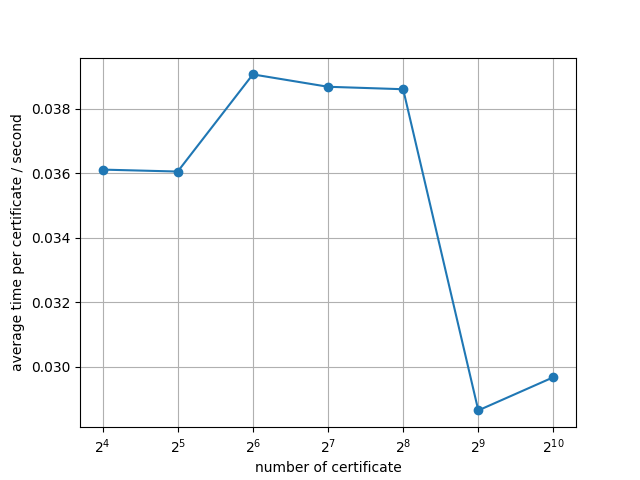
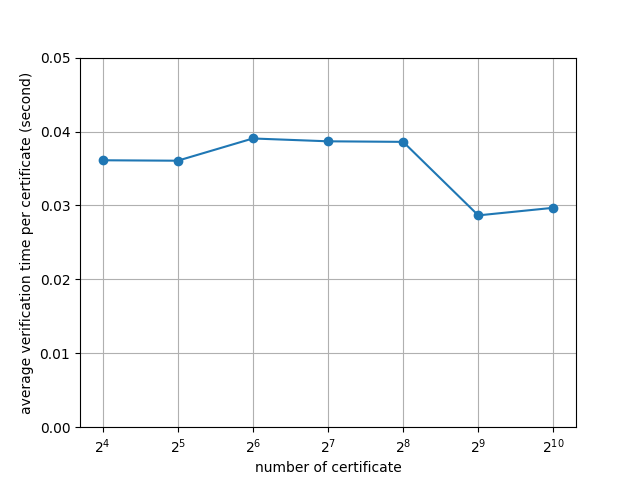
update test figure

diff --git a/plot.py b/plot.py
@@ -48,16 +48,16 @@ verify_log.close()
 
 
 # plt.title("issuing time diagram")
-plt.ylabel("average time per certificate / second")
+plt.ylabel("average time per certificate (second)")
 plt.xlabel("number of certificate")
 plt.xscale('log', base=2)
 plt.plot(x, e2e_time, '-o')
 plt.grid()
-# plt.ylim((2.133, 2.138))
+plt.ylim(0, 2.5)
 plt.savefig(FOLDER_PATH + "/issuing-time-diagram.png")
 plt.close()
 
-plt.ylabel("std time per certificate / second")
+plt.ylabel("std time per certificate (second)")
 plt.xlabel("number of certificate")
 plt.xscale('log', base=2)
 plt.plot(x, e2e_time_std, '-o')
@@ -68,7 +68,7 @@ plt.close()
 
 
 # plt.title("upload time diagram")
-plt.ylabel("total time / second")
+plt.ylabel("total time (second)")
 plt.xlabel("number of certificate")
 plt.xscale('log', base=2)
 plt.plot(x, upload_time, '-o')
@@ -77,21 +77,41 @@ plt.ylim((0, 140))
 plt.savefig(FOLDER_PATH + "/upload-time-diagram.png")
 plt.close()
 
+plt.ylabel("average upload time per certificate (second)")
+plt.xlabel("number of certificate")
+plt.xscale('log', base=2)
+plt.plot(x, upload_time/x, '-o')
+plt.grid()
+plt.ylim((0, 0.3))
+plt.savefig(FOLDER_PATH + "/upload-time-per-cert-diagram.png")
+plt.close()
+# plt.title("upload time diagram")
+plt.ylabel("total time / second")
+plt.xlabel("number of certificate")
+# plt.xscale('log', base=2)
+plt.plot(x, upload_time, '-o')
+plt.grid()
+plt.ylim((0, 140))
+plt.savefig(FOLDER_PATH + "/upload-time-linear-diagram.png")
+plt.close()
 # plt.title("verify time diagram")
-plt.ylabel("average time per certificate / second")
+plt.ylabel("average verification time per certificate (second)")
 plt.xlabel("number of certificate")
 plt.plot(x, verify_time, '-o')
 plt.xscale('log', base=2)
+plt.ylim((0, 0.05))
 plt.grid()
 plt.savefig(FOLDER_PATH + "/verify-time-diagram.png")
 plt.close()
 
 
 # plt.title("verify time diagram")
-plt.ylabel("std time per certificate / second")
+plt.ylabel("std time per certificate (second)")
 plt.xlabel("number of certificate")
 plt.plot(x, verify_time_std, '-o')
 plt.xscale('log', base=2)
+plt.ylim((0, 0.01))
+
 plt.grid()
 plt.savefig(FOLDER_PATH + "/verify-time-std-diagram.png")
 plt.close()
